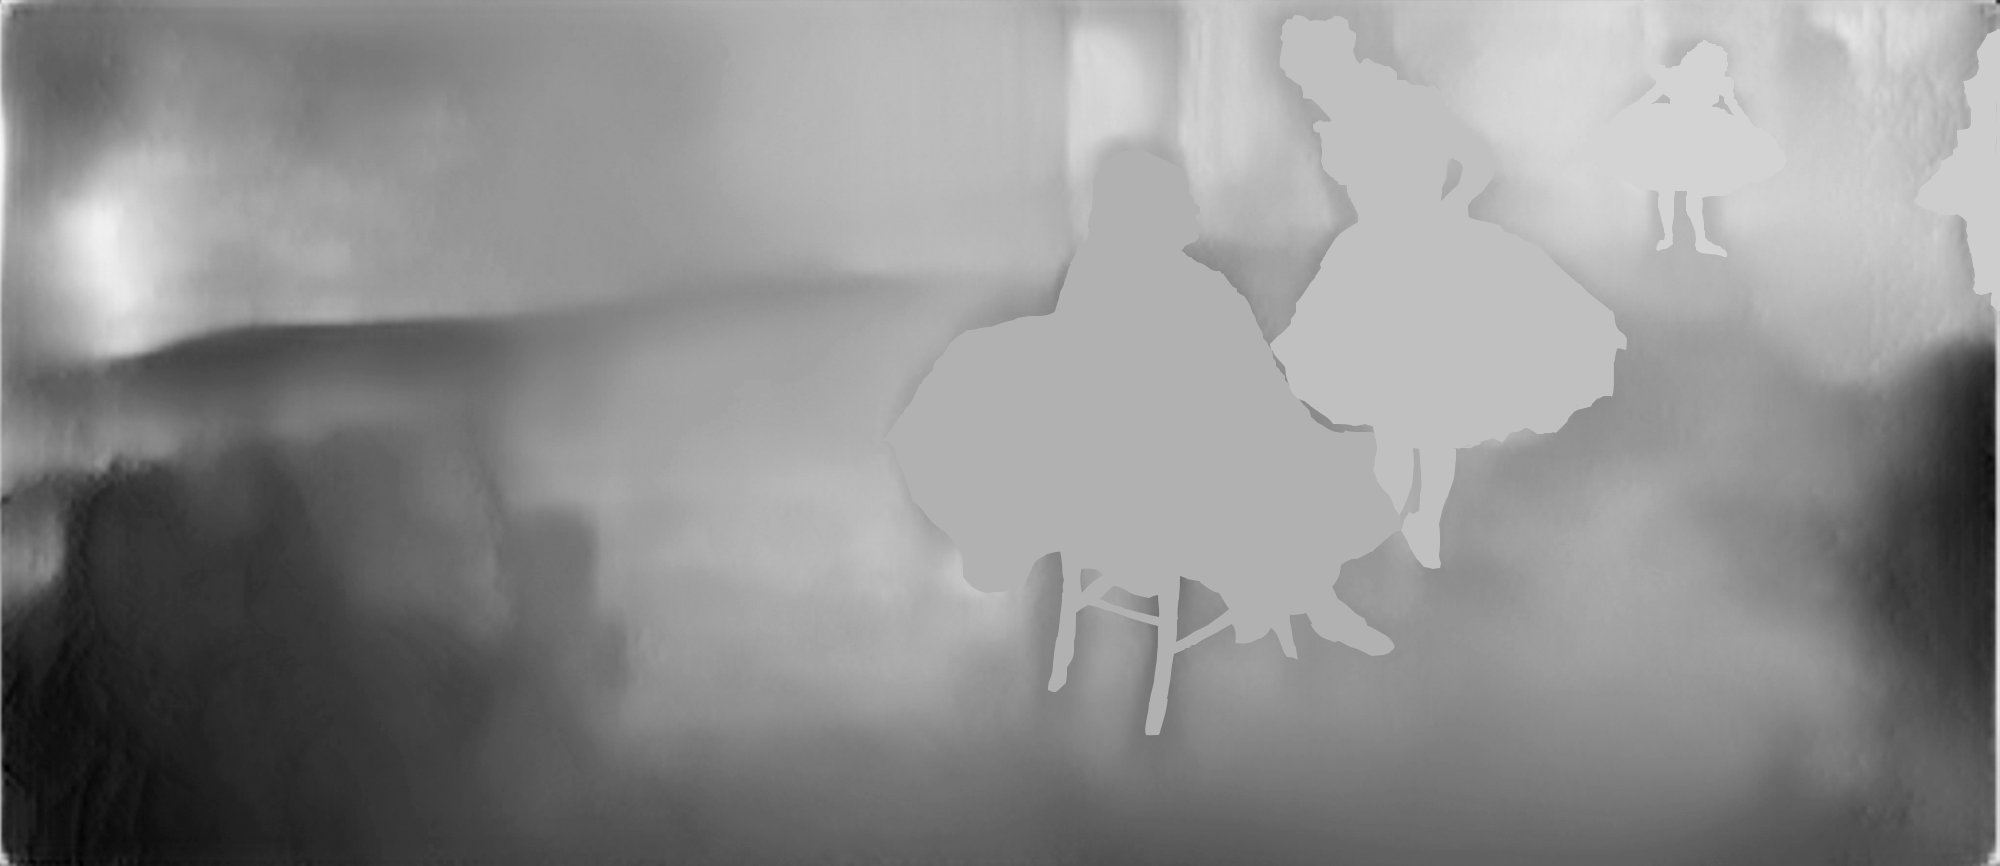
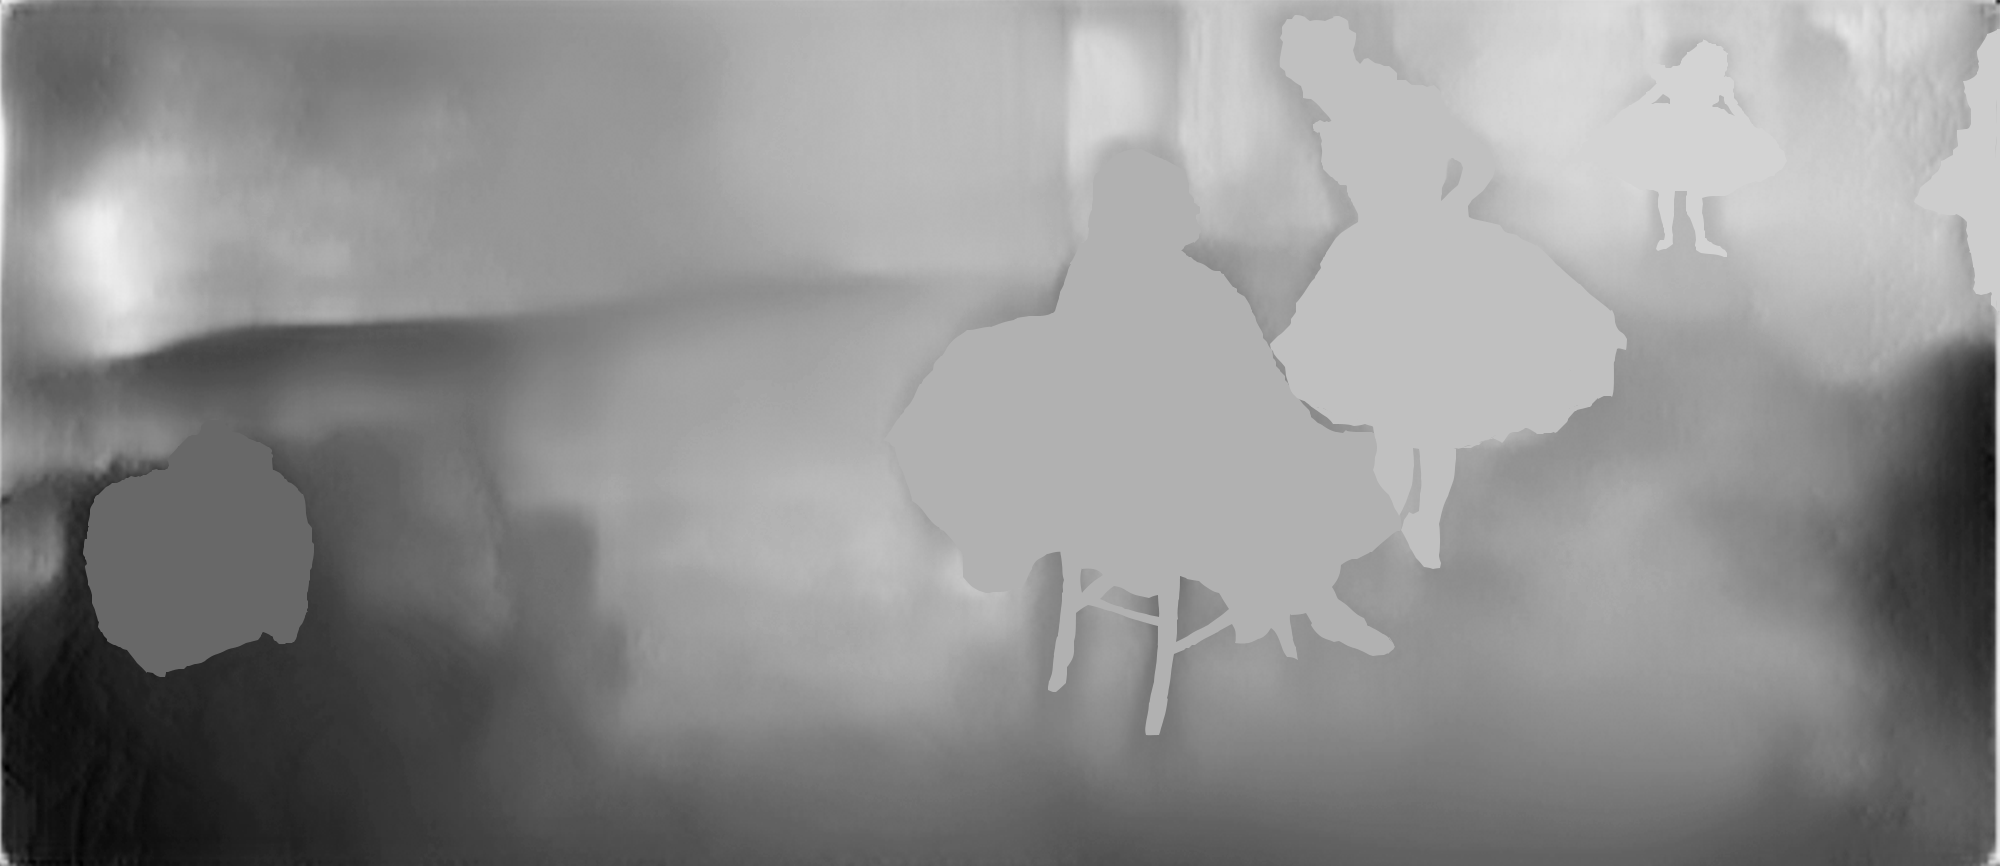
added more cutouts

Changed region(s): [[0.031, 0.4988, 0.155, 0.7794]]

diff --git a/js/degas.js b/js/degas.js
@@ -30,14 +30,15 @@ function loadSpriteImages(){
 
 
 function loadCutoutImages(width, height) {
+	var agnes = loadImage('./images/degasCutouts/Agnes.png', width, height)
 	var adele = loadImage('./images/degasCutouts/Adele.png', width, height)
 	var celine = loadImage('./images/degasCutouts/Celine.png', width, height)
 	var elena = loadImage('./images/degasCutouts/Elena.png', width, height)
 	var jodi = loadImage('./images/degasCutouts/Jodi.png', width, height)
 	
 	return new Promise((accept, reject) => {
-		Promise.all([adele, celine, elena, jodi]).then(([adele, celine, elena, jodi]) => {
-			accept([adele, celine, elena, jodi])
+		Promise.all([agnes, adele, celine, elena, jodi]).then(([agnes, adele, celine, elena, jodi]) => {
+			accept([agnes, adele, celine, elena, jodi])
 		})
 	})
 }	
@@ -45,6 +46,7 @@ function loadCutoutImages(width, height) {
 
 function loadPaperdolls(images, ctxDraw, ctxDepth, width, height)
 {
+	var agnes = new Paperdoll(ctxDraw, ctxDepth, images[0], 104, width, height)
 	var adele = new Paperdoll(ctxDraw, ctxDepth, images[0], 161, width, height)
 	var celine = new Paperdoll(ctxDraw, ctxDepth, images[1], 181, width, height)
 	var elena = new Paperdoll(ctxDraw, ctxDepth, images[2], 150, width, height)

diff --git a/styles/index.css b/styles/index.css
@@ -105,11 +105,6 @@ body{
 	height: auto;
 	top: 66px;
 	left: 0px;
-	image-rendering: -moz-crisp-edges;
-    image-rendering: -o-crisp-edges;
-    image-rendering: -webkit-optimize-contrast;
-    -ms-interpolation-mode: nearest-neighbor;
-    image-rendering: pixelated;
 }
 
 #depthMap{
